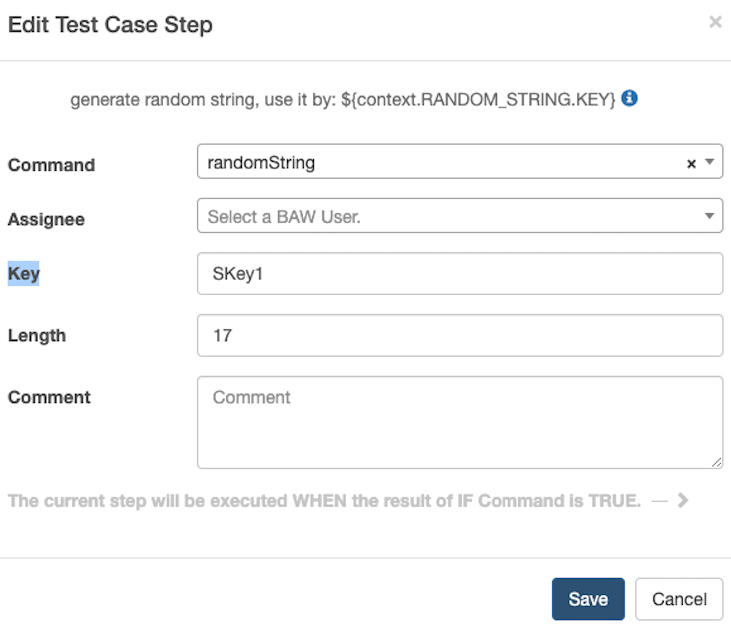
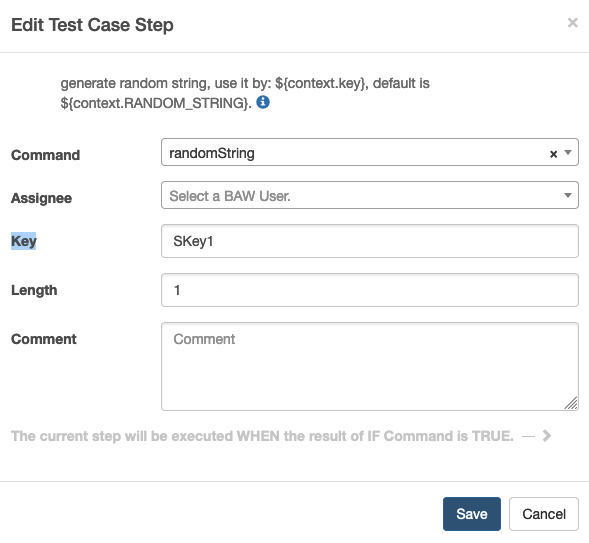
fix

diff --git a/_posts/2018-11-03-references-test-command.md b/_posts/2018-11-03-references-test-command.md
@@ -2,7 +2,7 @@
 title: "Test Commands"
 category: references
 date: 2018-11-03 15:17:55
-last_modified_at: 2023-10-10 11:17:00
+last_modified_at: 2023-10-10 13:00:00
 ---
 
 # Test Commands
@@ -1585,7 +1585,7 @@ Generate a specified length random string with key.
 
 	| Name | Required | Description |
 	|----------------|------------|--------------|
-	| `Key` | Optional | Key name for the length of the generated random string, default value is "default".|
+	| `Key` | Optional | Key name for the length of the generated random string, default value is "RANDOM_STRING".|
 	| `Length` | Required | Length of the generated random string.|
 
 - Example 
@@ -1602,7 +1602,7 @@ Generate a specified length random number with key.
 
 	| Name | Required | Description |
 	|----------------|------------|--------------|
-	| `Key` | Optional | Key name for the length of the generated random number, default value is "default".|
+	| `Key` | Optional | Key name for the length of the generated random number, default value is "RANDOM_NUMBER".|
 	| `Length` | Required | Length of the generated random number.|
 	
 - Example 
